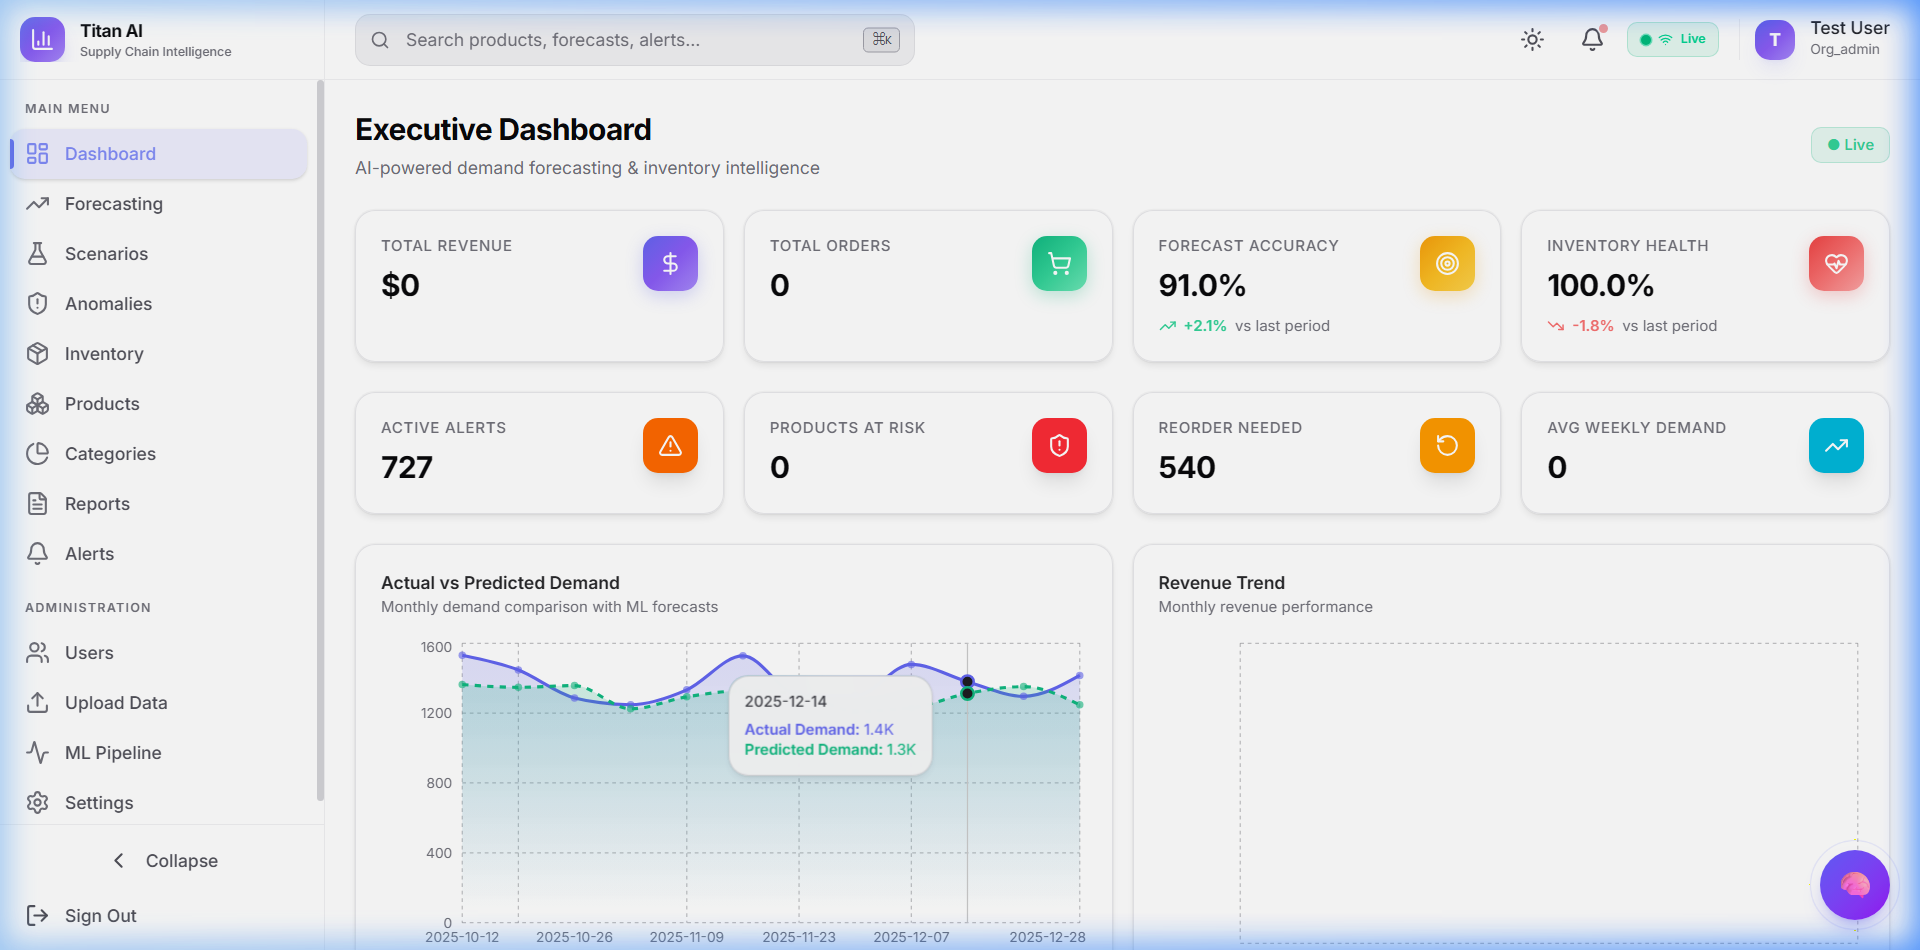
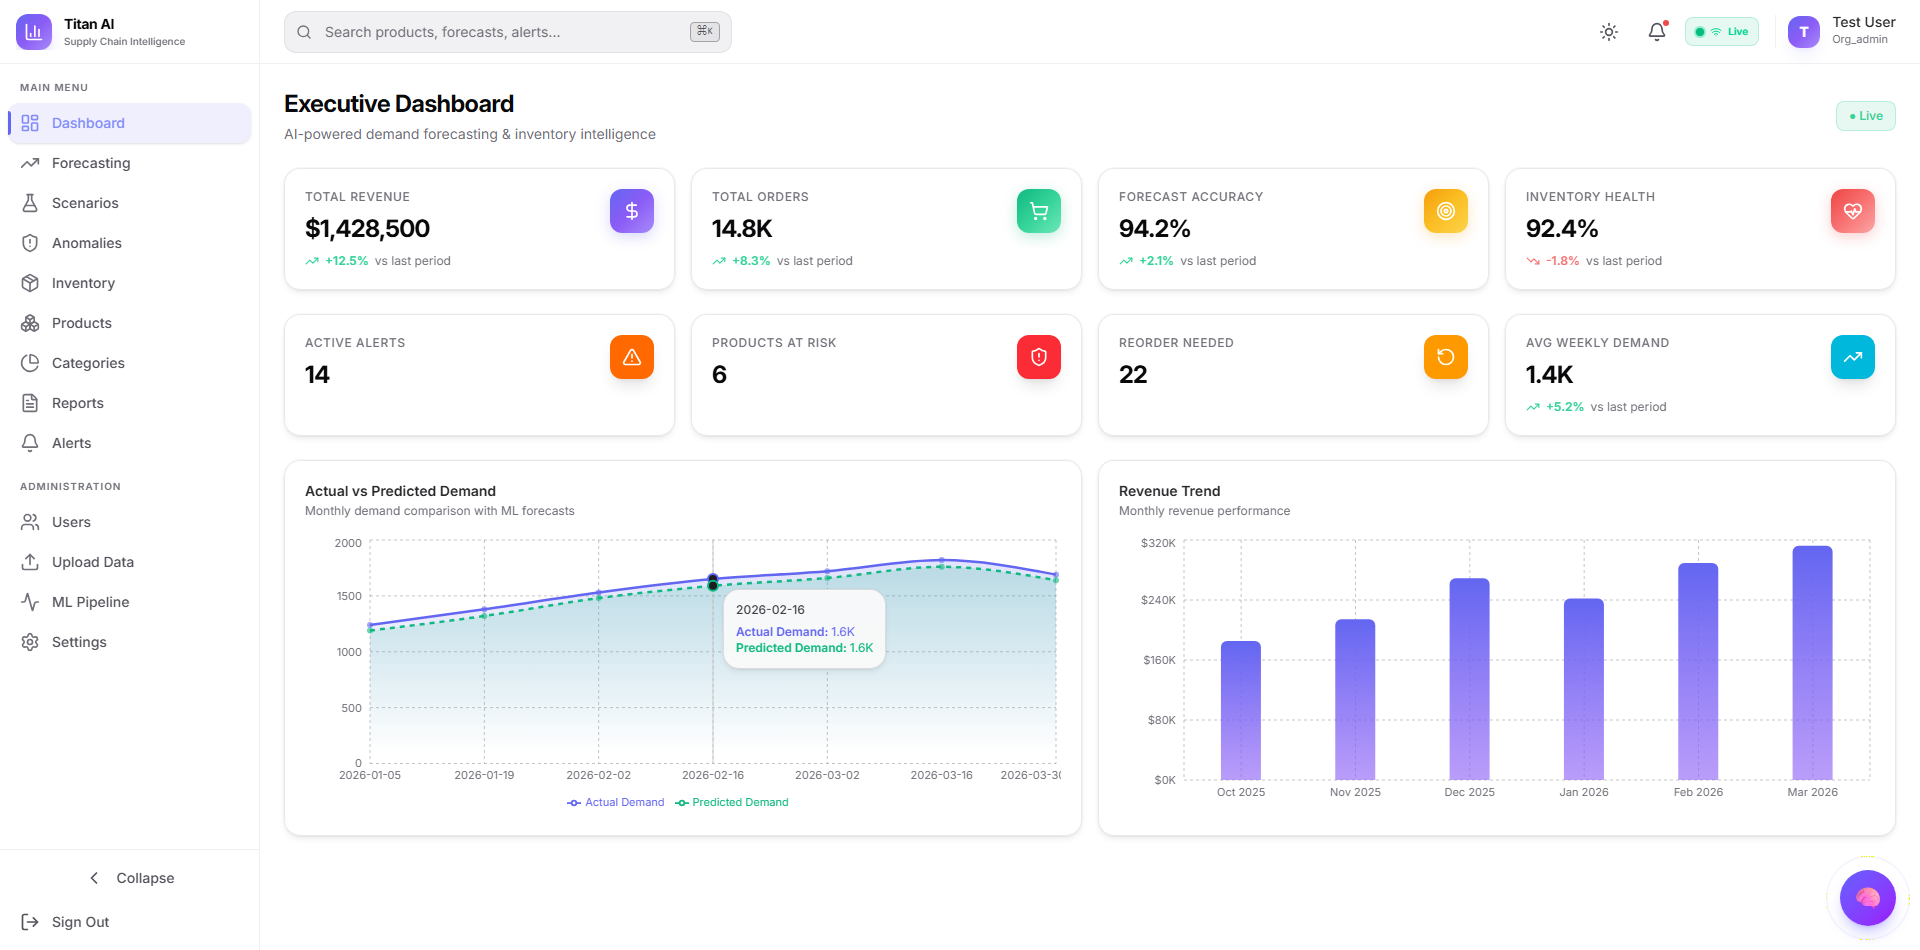
docs: Update Executive Dashboard preview screenshot with populated metrics and revenue trends

diff --git a/landing/index.html b/landing/index.html
@@ -527,7 +527,7 @@ footer{border-top:1px solid var(--bo);padding:60px 0 36px}
       <div class="mac-outer" id="mac-outer">
         <div class="mac-notch" aria-hidden="true"></div>
         <div class="mac-screen">
-          <img src="screenshots/app_dashboard_1784608560491.png" alt="Titan AI Executive Dashboard — live forecasting platform" loading="lazy" id="mac-img"/>
+          <img src="screenshots/app_dashboard.png" alt="Titan AI Executive Dashboard — live forecasting platform" loading="lazy" id="mac-img"/>
         </div>
       </div>
       <div class="mac-base" aria-hidden="true"></div>
@@ -660,7 +660,7 @@ footer{border-top:1px solid var(--bo);padding:60px 0 36px}
             <div class="demo-url">Titan AI — Executive Dashboard</div>
           </div>
           <div class="demo-content">
-            <img src="screenshots/app_dashboard_1784608560491.png" class="demo-img" alt="Executive Dashboard"/>
+            <img src="screenshots/app_dashboard.png" class="demo-img" alt="Executive Dashboard"/>
           </div>
         </div>
       </div>

diff --git a/README.md b/README.md
@@ -15,7 +15,7 @@
 
 *A production-ready, multi-tenant SaaS platform that unifies machine learning forecasting, real-time inventory intelligence, anomaly detection, scenario planning, and an AI Copilot — all in a single containerized system.*
 
-<img src="landing/screenshots/app_dashboard_1784608560491.png" alt="Project Titan Dashboard Preview" style="width:100%; margin-top:20px; border-radius:10px; box-shadow: 0 4px 6px rgba(0,0,0,0.1);">
+<img src="landing/screenshots/app_dashboard.png" alt="Project Titan Dashboard Preview" style="width:100%; margin-top:20px; border-radius:10px; box-shadow: 0 4px 6px rgba(0,0,0,0.1);">
 
 </div>
 
@@ -755,7 +755,7 @@ docker compose down -v
 
 ### Dashboard
 Live KPI cards with real-time WebSocket updates, forecast accuracy, anomaly count, and inventory health score.
-![Dashboard](landing/screenshots/app_dashboard_1784608560491.png)
+![Dashboard](landing/screenshots/app_dashboard.png)
 
 ### Forecasting Page
 12-week demand forecast chart with confidence interval band, model version info, and SHAP driver panel.
